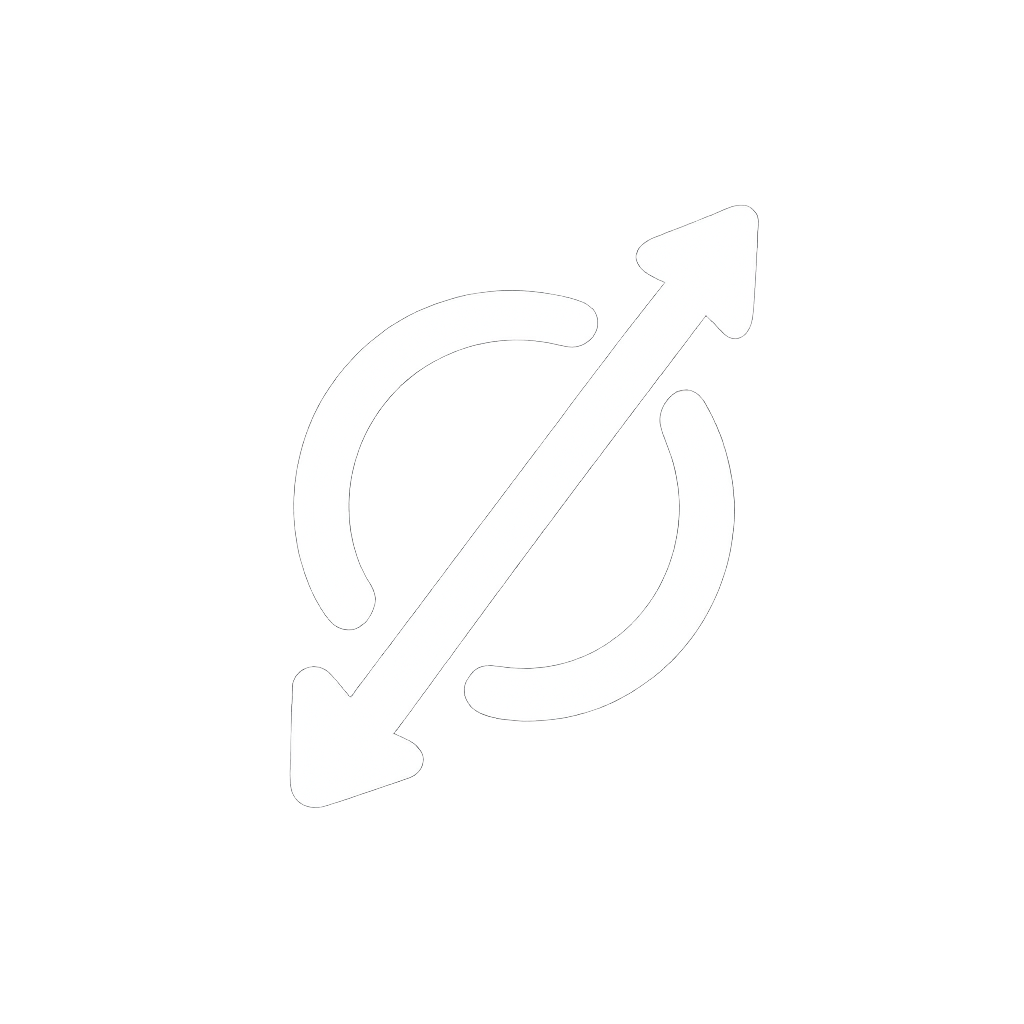
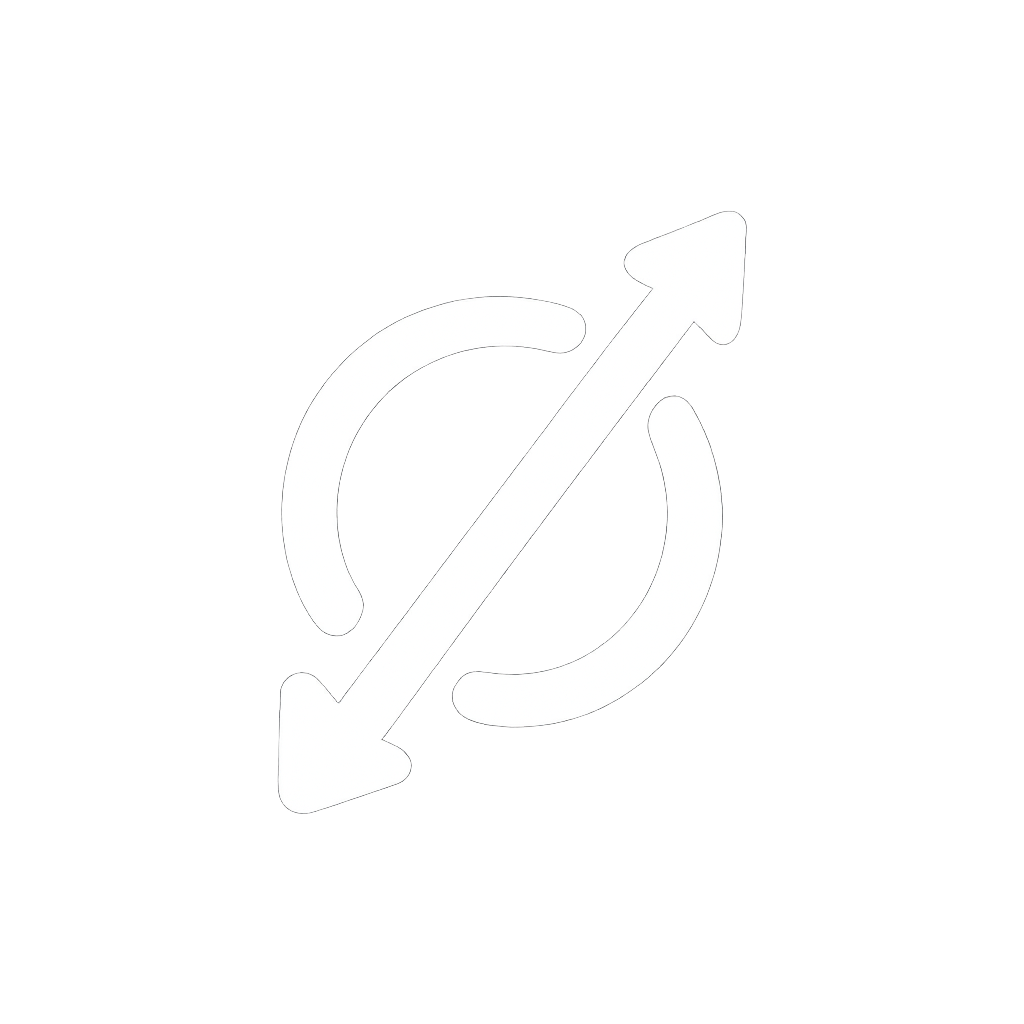
fix(call): centre the sas mark and paint it on the first frame
Centring: the mark sat 24px right and 12px high in its own canvas
(margins 289/265 and 204/216), enough to read as off-centre at 278px.
Shifted by whole pixels only — no resampling, not a pixel of the artwork
touched. Now 277/277 and 210/210.

First frame: Image only paints once its decode finishes, so the splash
opened on an empty column and the logo arrived a beat later. The warm-up
lived in RootShell's post-frame callback, which a cold launch straight
into a call (CallKit / full-screen intent) never runs — precisely the
path where the blank beat was visible. Move it into main(), behind
CallSplashImage, which also holds the ImageStream for the process
lifetime: a bare precache does not survive the cache evicting it once a
few hundred Discover photos have scrolled past. The splash paints the
same provider, so it is a cache hit on frame one.

diff --git a/lib/screens/call_screen.dart b/lib/screens/call_screen.dart
@@ -37,6 +37,37 @@ import '../swayco/translation_route.dart';
 import '../widgets/pressable.dart';
 import '../widgets/profile_avatar.dart';
 
+/// The connecting-splash ("sas") mark, decoded at boot and pinned for the
+/// process lifetime.
+///
+/// [Image] only paints once its decode has finished, so the splash used to
+/// open on an empty column and the logo popped in a frame or two later.
+/// Resolving the stream at startup moves that decode into the boot, where
+/// there is nothing to be late for; holding the listener keeps [ImageCache]
+/// from evicting it once the user has scrolled a few hundred Discover
+/// photos — a precache alone does not survive that.
+class CallSplashImage {
+  const CallSplashImage._();
+
+  static const provider = AssetImage('assets/icon-saas.png');
+
+  static ImageStream? _stream;
+
+  /// Idempotent — safe to call from more than one boot path. Needs no
+  /// [BuildContext] and nothing awaits it: the decode lands long before a
+  /// call can start.
+  static void warm() {
+    if (_stream != null) return;
+    _stream = provider.resolve(ImageConfiguration.empty)
+      ..addListener(
+        ImageStreamListener(
+          (_, _) {},
+          onError: (e, _) => debugPrint('call splash precache failed: $e'),
+        ),
+      );
+  }
+}
+
 class CallScreen extends StatefulWidget {
   const CallScreen({
     super.key,
@@ -2229,11 +2260,13 @@ class _CallScreenState extends State<CallScreen> {
                 // Logo, then the spinner + hint kept close just beneath it
                 // (centred together as a tight group, not spread apart).
                 const Spacer(flex: 5),
-                // 278 rather than 210: the mark only fills 59% of its own
-                // canvas, so at 210 it would render a third smaller than
-                // the logo it replaces. The file itself is untouched.
-                Image.asset(
-                  'assets/icon-saas.png',
+                // Same provider CallSplashImage warmed at boot, so this
+                // paints on the splash's very first frame instead of a
+                // beat later. 278 rather than 210: the mark only fills
+                // 59% of its own canvas, so at 210 it would render a
+                // third smaller than the logo it replaces.
+                const Image(
+                  image: CallSplashImage.provider,
                   width: 278,
                   height: 278,
                   fit: BoxFit.contain,

diff --git a/lib/main.dart b/lib/main.dart
@@ -10,6 +10,7 @@ import 'package:shared_preferences/shared_preferences.dart';
 import 'package:supabase_flutter/supabase_flutter.dart';
 
 import 'firebase_options.dart';
+import 'screens/call_screen.dart';
 import 'screens/guest_join_screen.dart';
 import 'screens/login_screen.dart';
 import 'screens/onboarding_screen.dart';
@@ -97,6 +98,14 @@ Future<void> main() async {
       debugPrint('PlatformDispatcher error: $e');
       return true;
     };
+    // Decode the call-splash mark into the image cache now, so it paints
+    // on the splash's very first frame instead of a beat later. It used
+    // to be warmed from RootShell's post-frame callback, which a cold
+    // launch straight into a call (CallKit / full-screen intent) skips
+    // entirely — exactly the path where the blank beat showed. Holding
+    // the stream (see CallSplashImage) also keeps the cache from evicting
+    // it behind a few hundred scrolled Discover photos.
+    CallSplashImage.warm();
     // Supabase keys come from --dart-define at build time. 15s cap so a
     // reviewer device on a bad network still boots — the earlier 5s cap
     // was actively harmful (it cut Hive session recovery mid-flight and

diff --git a/lib/screens/root_shell.dart b/lib/screens/root_shell.dart
@@ -116,12 +116,8 @@ class _RootShellState extends State<RootShell> {
     WidgetsBinding.instance.addPostFrameCallback((_) {
       _onNotificationIntent();
       _maybeShowOnboardingTips();
-      // Warm the call "connecting" logo into the image cache at app start so
-      // it shows instantly when a call begins (it was decoding on first
-      // display, leaving a visible blank beat on the connecting screen).
-      if (mounted) {
-        precacheImage(const AssetImage('assets/icon-saas.png'), context);
-      }
+      // (The call "connecting" logo is warmed in main() — earlier than this
+      // shell mounts, and on the call paths that never mount it at all.)
     });
   }
 
